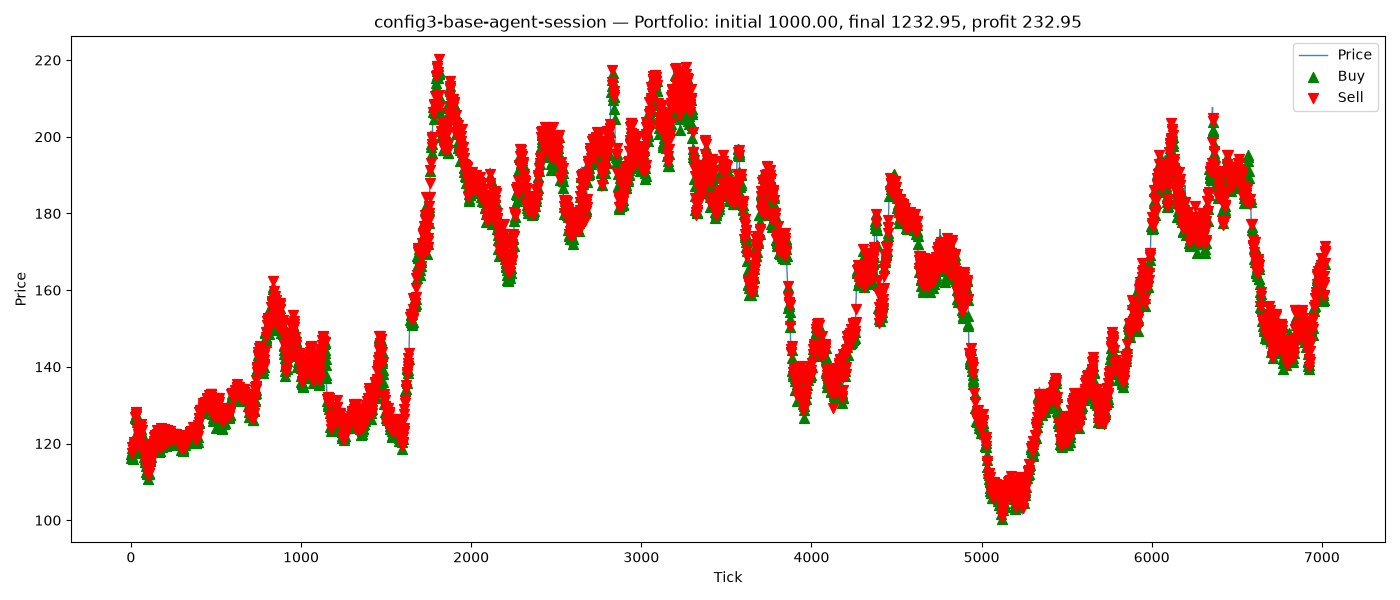
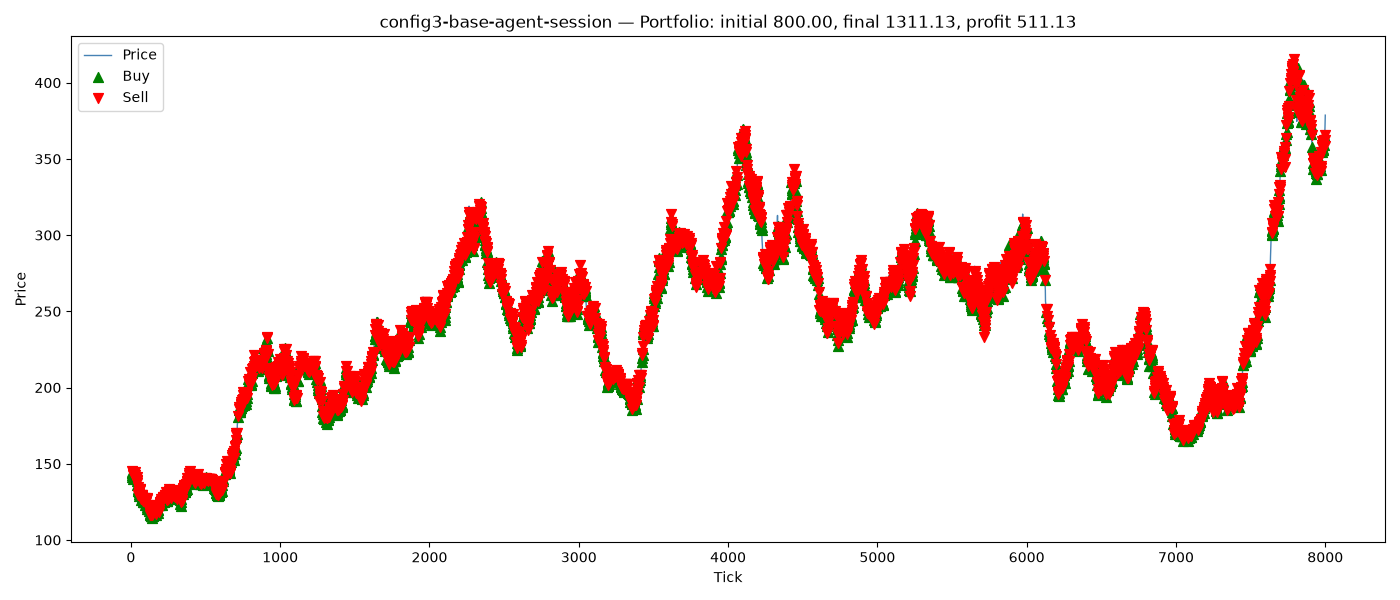
the project is corrected with respect to requirements

diff --git a/expRunner.py b/expRunner.py
@@ -3,54 +3,35 @@ from environment import TradingMarket
 from actuator import Actuator
 from resultVizualization import plot_trading_session
 from agent2 import BaseAgent
+from sensor import Sensor
+from operator import itemgetter
 
-def runExpTradingAgent(configWeights, configName):
-    a = TradingAgent(k=0.5)
-    env = TradingMarket(43, 120, 574, 64, configWeights, 50, 150, 1000)
+def runExp(agent,configWeights, configName, tradingConfigs, ticks=8000):
+    startingPrice, ath, atl, minimalRegimeDuration, maximumRegimeDuration, initialBudget, seed = itemgetter("startingPrice",
+                                                                                                      "ath",
+                                                                                                      "atl",
+                                                                                                      "minimalRegimeDuration",
+                                                                                                      "maximumRegimeDuration",
+                                                                                                      "initialBudget", "seed")(tradingConfigs)
+    env = TradingMarket(seed, startingPrice, ath, atl, configWeights, minimalRegimeDuration, maximumRegimeDuration, initialBudget)
+    sensor = Sensor(env)
     actuator = Actuator(env)
-    for _ in range(7000):
+
+    for _ in range(ticks):
         env.tick()
-        perception = env.getPerception()
-        action = a.makeDecision(perception)
+        perception = sensor.sense()
+        action = agent.makeDecision(perception)
         actuator.act(action)
-
-        if env.isBunkrupt():
-            break
-
-    while not env._holdings == 0:
-        env.tick()
-        perception = env.getPerception()
-        action = a.makeDecision(perception)
-        actuator.act(action)
-
 
     profit = env.getPortfolio() - env.getInitialBudget()
     plot_trading_session(env.getHistory(), env.tradeLog(), env.getPortfolio(), env.getInitialBudget(), configName)
     return profit
 
-def runExpBaseAgent(configWeights, configName):
-    a = BaseAgent()
-    env = TradingMarket(43, 120, 574, 64, configWeights, 50, 150, 1000)
-    actuator = Actuator(env)
-    for _ in range(7000):
-        env.tick()
-        perception = env.getPerception()
-        action = a.makeDecision(perception)
-        actuator.act(action)
 
-        if env.isBunkrupt():
-            break
+def runExpTradingAgent(configWeights, configName, windowLen, tradingConfigs):
+    return runExp(TradingAgent(windowLen=windowLen,k=0.5),configWeights, configName, tradingConfigs)
 
-    while not env._holdings == 0:
-        env.tick()
-        perception = env.getPerception()
-        action = a.makeDecision(perception)
-        actuator.act(action)
-    profit = env.getPortfolio() - env.getInitialBudget()
-    plot_trading_session(env.getHistory(), env.tradeLog(), env.getPortfolio(), env.getInitialBudget(), configName)
-    return profit
-
-
-
+def runExpBaseAgent(configWeights, configName, tradingConfigs):
+    return runExp(BaseAgent(),configWeights, configName, tradingConfigs)
 
 

diff --git a/runExperiments.py b/runExperiments.py
@@ -1,18 +1,28 @@
 from expRunner import runExpTradingAgent
 from expRunner import runExpBaseAgent
 from compareAgentsVisualization import compareProfits
+import json
+from operator import itemgetter
+
+with open("tradingConfigs.json") as f:
+    tradingConfigs = json.load(f)
 
 def prepareConfigs(conf1, conf2, conf3, conf4):
     confArray = [conf1,conf2,conf3,conf4]
     return confArray
 
-def runExperiments(configs):
-    tradingProfitArr = []
-    baseProfitArr = []
-    for i in range(4):
-        tradingProfitArr.append(runExpTradingAgent(configs[i], f"config{i}-trading-agent-session"))
-        baseProfitArr.append(runExpBaseAgent(configs[i], f"config{i}-base-agent-session"))
+def runExperiments(configs, tradingConfigs):
+  minDuration, maxDuration = itemgetter(
+  "minimalRegimeDuration",
+  "maximumRegimeDuration")(tradingConfigs)
 
-    compareProfits(tradingProfitArr, baseProfitArr)
+  windowLen = int((minDuration + maxDuration) * 0.5)
 
-runExperiments(prepareConfigs({"uptrend": 1, "downtrend": 1, "sideway": 1}, {"uptrend": 1, "downtrend": 1, "sideway": 3}, {"uptrend": 2, "downtrend": 1, "sideway": 3}, {"uptrend": 3, "downtrend": 1, "sideway": 1}))
+  tradingProfitArr = []
+  baseProfitArr = []
+  for i in range(4):
+      tradingProfitArr.append(runExpTradingAgent(configs[i], f"config{i}-trading-agent-session", windowLen, tradingConfigs))
+      baseProfitArr.append(runExpBaseAgent(configs[i], f"config{i}-base-agent-session", tradingConfigs))
+  compareProfits(tradingProfitArr, baseProfitArr)
+
+runExperiments(prepareConfigs({"uptrend": 1, "downtrend": 1, "sideway": 1}, {"uptrend": 1, "downtrend": 1, "sideway": 3}, {"uptrend": 2, "downtrend": 1, "sideway": 3}, {"uptrend": 4, "downtrend": 1, "sideway": 1}), tradingConfigs)

diff --git a/environment.py b/environment.py
@@ -3,8 +3,11 @@ from priceSimulator import PriceSimulator
 class TradingMarket:
     def __init__(self, seed,  startingPrice, ath, atl, weights, minimalRegimeDuration, maximumRegimeDuration, initialBudget):
 
-        if  not isinstance(startingPrice, (int, float)):
+        if not isinstance(startingPrice, (int, float)):
             raise ValueError("Price should be an integer or float")
+
+        if atl > ath:
+            atl, ath = ath, atl
 
         if startingPrice > ath:
             self._ath = startingPrice
@@ -63,9 +66,6 @@ class TradingMarket:
             return -1
 
         return 0
-
-    def isBunkrupt(self):
-        return self._budget <=  0 and self._holdings == 0
 
     def getPortfolio(self):
         return self._budget + self._holdings * self._currentPrice

diff --git a/compareAgentsVisualization.py b/compareAgentsVisualization.py
@@ -7,11 +7,11 @@ def compareProfits(tradingProfits, baseProfits):
     means.append(fmean(baseProfits))
     stds = []
     stds.append(stdev(tradingProfits))
-    stds.append(stdev(tradingProfits))
+    stds.append(stdev(baseProfits))
 
     plt.figure(figsize=(8, 5))
     plt.bar(["Trading agent", "Base agent"], means, yerr=stds, capsize=6, color=["#2a6fdb", "#d9741a"])
     plt.ylabel("Profit")
     plt.savefig("Comparison.png")
-    plt.show()
+    plt.close()
 

diff --git a/agent.py b/agent.py
@@ -3,7 +3,7 @@ from statistics import fmean, pstdev
 
 class TradingAgent:
 
-    def __init__(self, windowLen = 70, k = 1, minMargin = 0.03):
+    def __init__(self, windowLen, k = 1, minMargin = 0.03):
         self._window = deque(maxlen = windowLen)
         self._k = k
         self._minMargin = minMargin

diff --git a/resultVizualization.py b/resultVizualization.py
@@ -27,3 +27,4 @@ def plot_trading_session(price_history, trade_log, final_portfolio, initial_budg
     plt.legend()
     plt.tight_layout()
     plt.savefig(f"{title.replace(' ', '_')}.png")
+    plt.close()

diff --git a/sensor.py b/sensor.py
@@ -1,0 +1,6 @@
+class Sensor:
+    def __init__(self, environment):
+        self._env = environment
+
+    def sense(self):
+        return self._env.getPerception()
